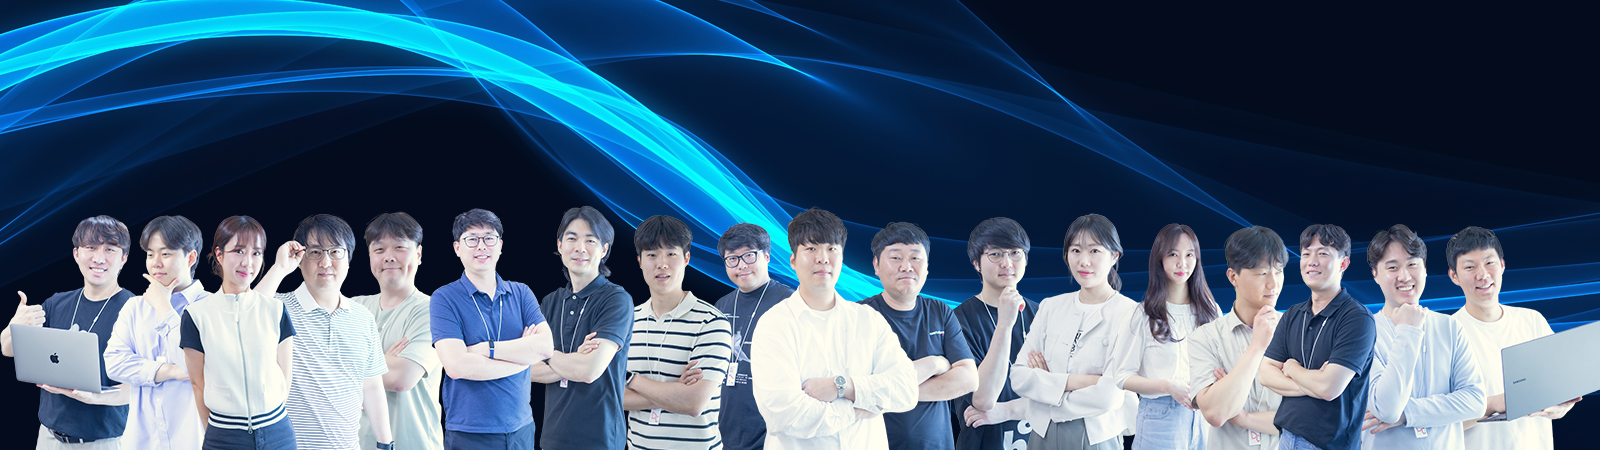
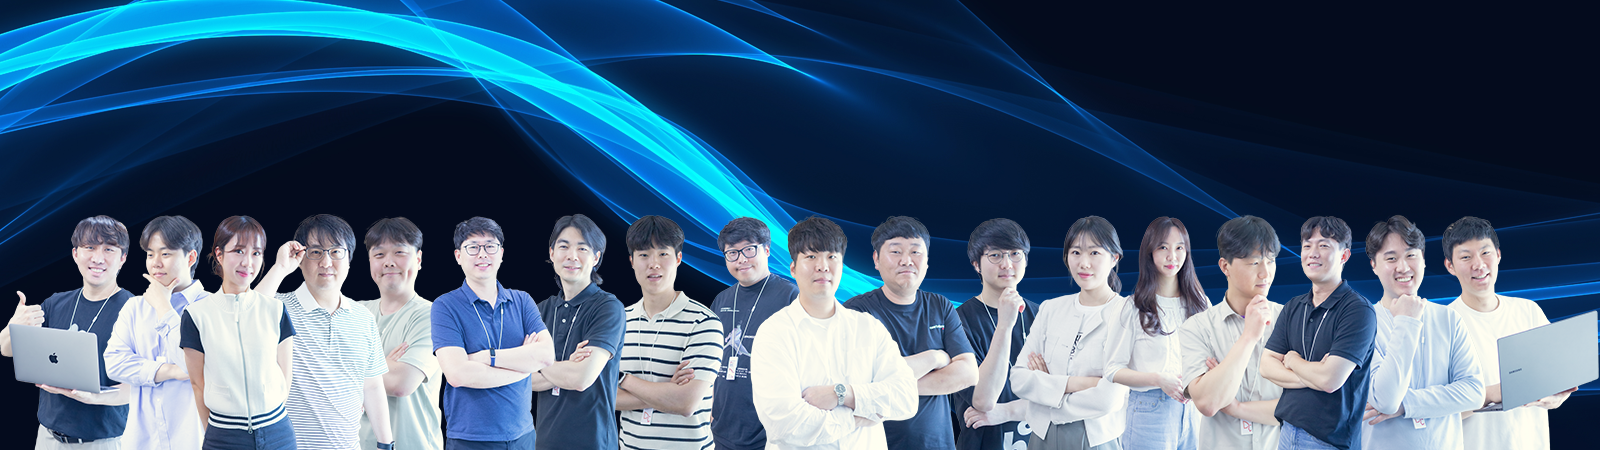
20240723 navbar 수정/ connect 시간 변경

diff --git a/src/components/MainNavBar.jsx b/src/components/MainNavBar.jsx
@@ -1,7 +1,7 @@
 import React, { useContext, useEffect, useState } from 'react'
 import { Link } from 'react-router-dom';
 import { BsLockFill } from 'react-icons/bs';
-import { LuClipboardEdit } from "react-icons/lu";
+// import { LuClipboardEdit } from "react-icons/lu";
 // import { BsClipboardData } from "react-icons/bs";
 // import { AiOutlineDashboard } from "react-icons/ai";
 import { FaCode } from "react-icons/fa6";
@@ -41,10 +41,10 @@ export const MainNavBar = () => {
           </Link>
         </div>
         <div className="controls">
-          <Link to="/idearegister" className="menu regLink">
+          {/* <Link to="/idearegister" className="menu regLink">
             <LuClipboardEdit size={24} />
             <span>Idea 등록</span>
-          </Link>
+          </Link> */}
           {/* <Link to="/solmgmt" className="menu regLink">
             <BsClipboardData size={24} />
             <span>Sol Mgmt</span>

diff --git a/src/pages/Product.jsx b/src/pages/Product.jsx
@@ -134,7 +134,7 @@ export const Product = ({ getDevelopers }) => {
           n_name: currentUser.name,
           team: currentUser.deptName,
           headqt: currentUser.prntDeptName,
-          date: new Date().toISOString(),
+          date: format(new Date(), 'yyyy-MM-dd HH:mm'),
           category: 'connect',
         };
 
